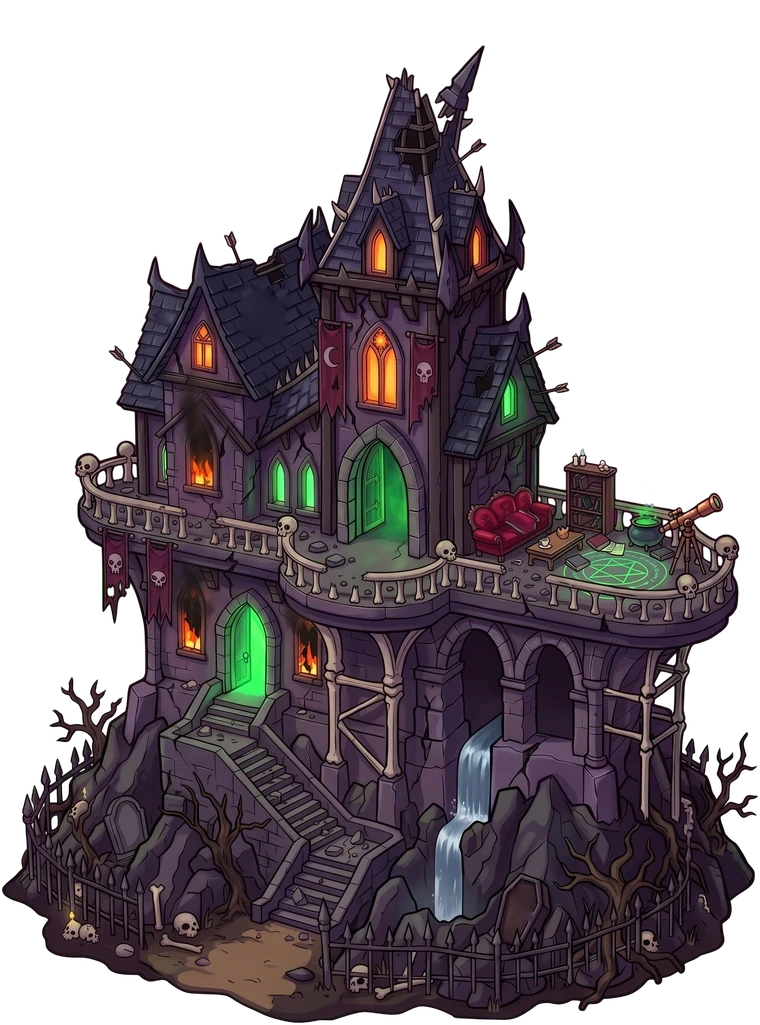
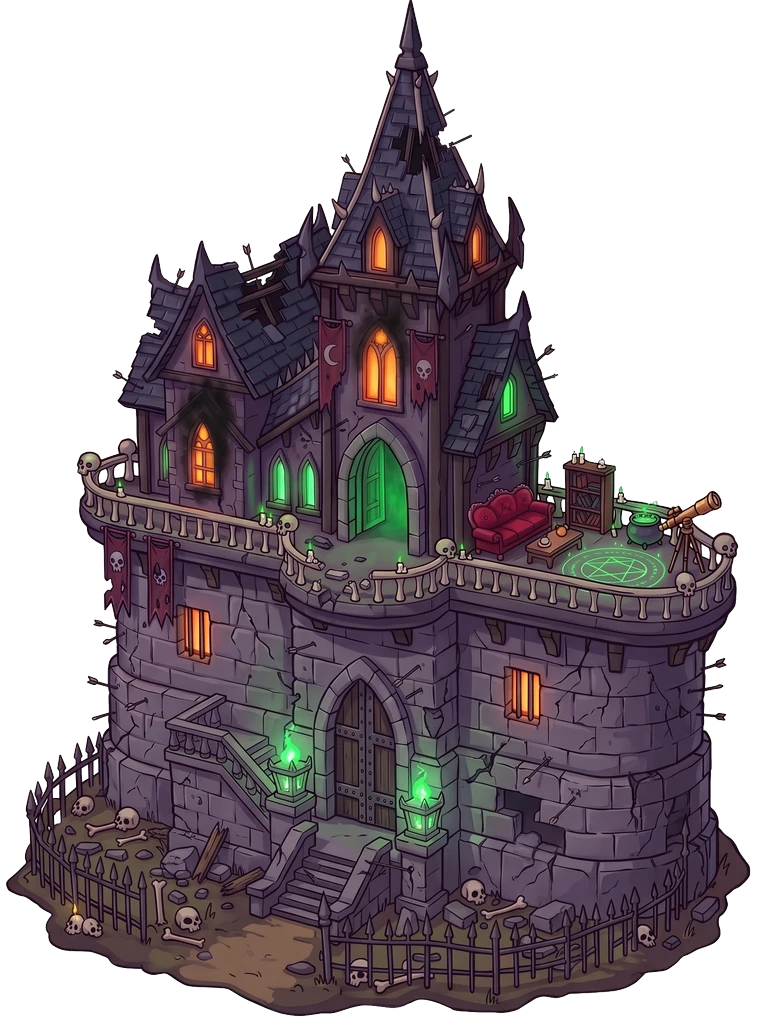
Kale v5 hasar evresi 2 (Gemini, kale_v5_hasar_isle.py ile hizalı), v5 pencere ışıkları (yayın 769)

diff --git a/sinir-kalesi/js/game.js b/sinir-kalesi/js/game.js
@@ -15527,6 +15527,7 @@ function winCol(i) {
   return A.map((v, j) => Math.round(lerp(v, B[j], k))).join(',');
 }
 // heybetli kalenin ışıkları: iki mangalda kızıl ruh ateşi (11 Eki: görsel de mor/kızıl, varliklar/kale_renk.py), pencereler ve gül pencere nabız gibi, kafatası kapının gözleri yanar
+const KEEP_V5 = new Set([2]); // 18 Eki: v5 tabanıyla Gemini'de yeniden çizilmiş hasar evreleri (varliklar/kale_v5_hasar_isle.py); 3 gelince eklenir
 const KEEP_FX = { // 17 Eki: kale v4 (turuncu pencereler, yeşil kapılar, ritüel çemberi; 4. öğe ışığın rengi). Mangal yok (fire boş).
   fire: [], green: true, eyes: [],
   win: [[0.497, 0.244, 0.6, '255,150,60'], [0.625, 0.24, 0.5, '255,150,60'], [0.5, 0.356, 1.6, '255,150,60'], [0.267, 0.337, 0.8, '255,150,60'],
@@ -15538,7 +15539,7 @@ const KEEP_FX = { // 17 Eki: kale v4 (turuncu pencereler, yeşil kapılar, ritü
   // hasar evrelerinde duman ve yangın kodla canlı: smoke [x, y, kalınlık], burn [x, y, boy]; off: o evrede kırılıp sönen pencereler (win sırası)
   dmg: {
     // 17 Eki: 2-3. evrede Veo yok (Veo hasarlı kaleyi reddetti ya da onarıp çizdi): pencerelerdeki çizili yangınların üstünde kodla canlı alev
-    2: { smoke: [[0.27, 0.43, 0.6], [0.56, 0.1, 0.7]], burn: [[0.264, 0.455, 0.35], [0.25, 0.625, 0.32], [0.405, 0.63, 0.32]] },
+    2: { smoke: [[0.37, 0.27, 0.6], [0.565, 0.12, 0.6]], burn: [[0.264, 0.43, 0.3]] }, // 18 Eki: v5 hasar 2 (çatı delikleri, isli sol pencere)
     3: { smoke: [[0.3, 0.3, 1], [0.5, 0.13, 0.9], [0.62, 0.36, 0.9], [0.17, 0.46, 0.8]], burn: [[0.17, 0.475, 0.6], [0.27, 0.46, 0.45], [0.25, 0.615, 0.32], [0.405, 0.645, 0.32]], off: [0, 1, 2, 3] },
   },
 };
@@ -15559,7 +15560,8 @@ function drawKeepLights(cp, h, sh, burning) {
   ctx.save(); ctx.globalCompositeOperation = 'lighter';
   const off = (KEEP_FX.dmg[burning] || {}).off;
   for (const [i, f] of KEEP_FX.win.entries()) {
-    if ((off && off.includes(i)) || (f[4] === 1 && burning) || (f[4] === 0 && !burning)) continue;
+    const v5 = !burning || KEEP_V5.has(burning); // 18 Eki: v5 tabanlı evreler (taş temel) ve eski kayalıklı evreler farklı pencere ışıkları kullanır
+    if ((off && off.includes(i)) || (f[4] === 1 && !v5) || (f[4] === 0 && v5)) continue;
     const [x, y] = P(f), k = 0.6 + 0.25 * Math.sin(time * 1.2 + i * 0.9) + 0.15 * Math.sin(time * 5 + i * 2) * Math.sin(time * 1.6 + i);
     glow(ctx, x, y, 22 * s * f[2], f[3] || winCol(i), 0.15 * k + 0.05);
   }

diff --git a/sinir-kalesi/index.html b/sinir-kalesi/index.html
@@ -17,7 +17,7 @@
 <canvas id="game" aria-label="Sınır Kalesi oyun alanı"></canvas>
 <script>
   // Sürüm damgası: her yayında artırılır; tarayıcı eski önbellek kopyasını kullanmaz (js ve görseller).
-  window.SURUM = '768';
+  window.SURUM = '769';
   // dil: kayıtlı seçim (yoksa Türkçe); tr/en dışındakiler için çeviri sözlüğü dil.js'ten önce yüklenir
   window.__dilYukle = (function () {
     var l = null; try { l = localStorage.getItem('sinirKalesi.lang'); } catch (e) {}

diff --git a/sinir-kalesi/yayin.html b/sinir-kalesi/yayin.html
@@ -11,7 +11,7 @@
 <canvas id="game" aria-label="Sınır Kalesi oyun alanı"></canvas>
 <script>
   // Sürüm damgası: her yayında artırılır; tarayıcı eski önbellek kopyasını kullanmaz (js ve görseller).
-  window.SURUM = '768';
+  window.SURUM = '769';
   // dil: kayıtlı seçim (yoksa Türkçe); tr/en dışındakiler için çeviri sözlüğü dil.js'ten önce yüklenir
   window.__dilYukle = (function () {
     var l = null; try { l = localStorage.getItem('sinirKalesi.lang'); } catch (e) {}

diff --git a/varliklar/kale_v5_hasar_isle.py b/varliklar/kale_v5_hasar_isle.py
@@ -1,0 +1,36 @@
+"""Kale v5 hasar evreleri (18 Eki): ham/nm_kale_v5_hasar<N>.jpg (Gemini, beyaz zemin, sağlam kaleyle aynı kadraj) -> img/castle_keep_<N>.webp.
+Beyaz zemin kale_v5_isle.beyaz_sil ile silinir; sağlam kaleye (img/castle_keep_1.webp) bütün görselle hizalanır (ölçek + konum aranır) ki
+KEEP noktaları (kapı, balkon, Mortimer) bütün evrelerde aynı yere düşsün. Eski evre görselleri cikti/kale_v4/ yedekte.
+    .venv/bin/python3 varliklar/kale_v5_hasar_isle.py 2 [--yaz]"""
+import os, sys, re
+import numpy as np
+from PIL import Image
+D = os.path.dirname(os.path.abspath(__file__)); IMG = os.path.join(D, '..', 'sinir-kalesi', 'img'); OUT = os.path.join(D, 'cikti', 'kale_v5')
+src = open(os.path.join(D, 'kale_v5_isle.py')).read(); ns = {'__file__': os.path.join(D, 'kale_v5_isle.py')}
+exec(src[src.index('import os'):src.index('new = beyaz_sil(')], ns)  # yalnız işlevler (betik kısmı çalışmasın)
+beyaz_sil, gri = ns['beyaz_sil'], ns['gri']
+N = int(sys.argv[1]); new = beyaz_sil(np.asarray(Image.open(os.path.join(D, 'ham', f'nm_kale_v5_hasar{N}.jpg')).convert('RGB')))
+ref = np.asarray(Image.open(os.path.join(IMG, 'castle_keep_1.webp')).convert('RGBA'))
+rg, ra = gri(ref, 0.25)
+best = None
+for s in np.linspace(0.25, 0.6, 71):
+    ng, na = gri(new, s * 0.25)
+    if ng.shape[0] < rg.shape[0] * 0.8: continue
+    H, Wd = rg.shape
+    for dy in range(-40, 41, 1):
+        for dx in range(-40, 41, 1):
+            # yeni görsel ref tuvaline (dx, dy) kaydırılarak konur: örtüşen alfa farkı (siluet) + gri fark
+            y0, x0 = max(0, dy), max(0, dx); y1, x1 = min(H, dy + ng.shape[0]), min(Wd, dx + ng.shape[1])
+            if y1 - y0 < H * 0.7 or x1 - x0 < Wd * 0.7: continue
+            pa = np.zeros_like(ra); pa[y0:y1, x0:x1] = na[y0 - dy:y1 - dy, x0 - dx:x1 - dx]
+            e = np.abs(pa - ra).mean()
+            if best is None or e < best[0]: best = (e, s, dx * 4, dy * 4)
+print('hizalama fark %.4f ölçek %.4f konum %d %d' % best)
+_, s, dx, dy = best
+im = Image.fromarray(new); im = im.resize((round(im.width * s), round(im.height * s)), Image.LANCZOS)
+c = Image.new('RGBA', (ref.shape[1], ref.shape[0])); c.alpha_composite(im, (dx, dy)) if dx >= 0 and dy >= 0 else c.paste(im, (dx, dy), im)
+os.makedirs(OUT, exist_ok=True); c.save(os.path.join(OUT, f'castle_keep_{N}.webp'), 'WEBP', quality=90, method=6)
+k = Image.new('RGBA', (ref.shape[1] * 2, ref.shape[0]), (90, 110, 70, 255)); k.alpha_composite(Image.fromarray(ref), (0, 0)); k.alpha_composite(c, (ref.shape[1], 0))
+o = Image.fromarray(ref).copy(); o.putalpha(Image.fromarray((ref[..., 3] * 0.5).astype(np.uint8))); k2 = c.copy(); k2.alpha_composite(o)
+k.convert('RGB').save(os.path.join(OUT, f'karsilastir_{N}.jpg'), quality=88); k2.convert('RGB').save(os.path.join(OUT, f'ust_uste_{N}.jpg'), quality=88)
+if '--yaz' in sys.argv: c.save(os.path.join(IMG, f'castle_keep_{N}.webp'), 'WEBP', quality=90, method=6); print('img/ yazıldı')
